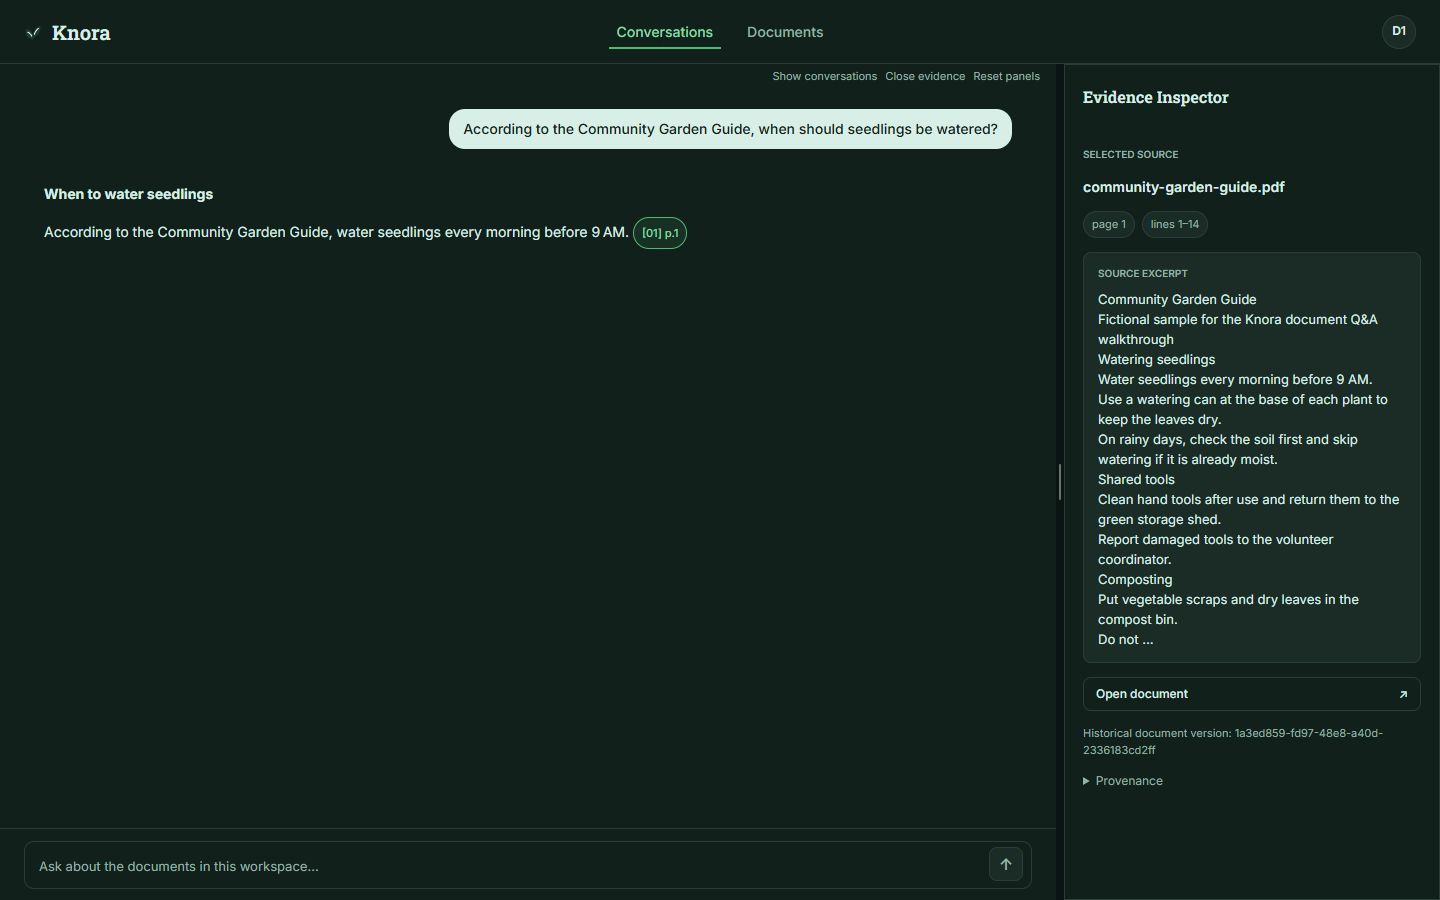
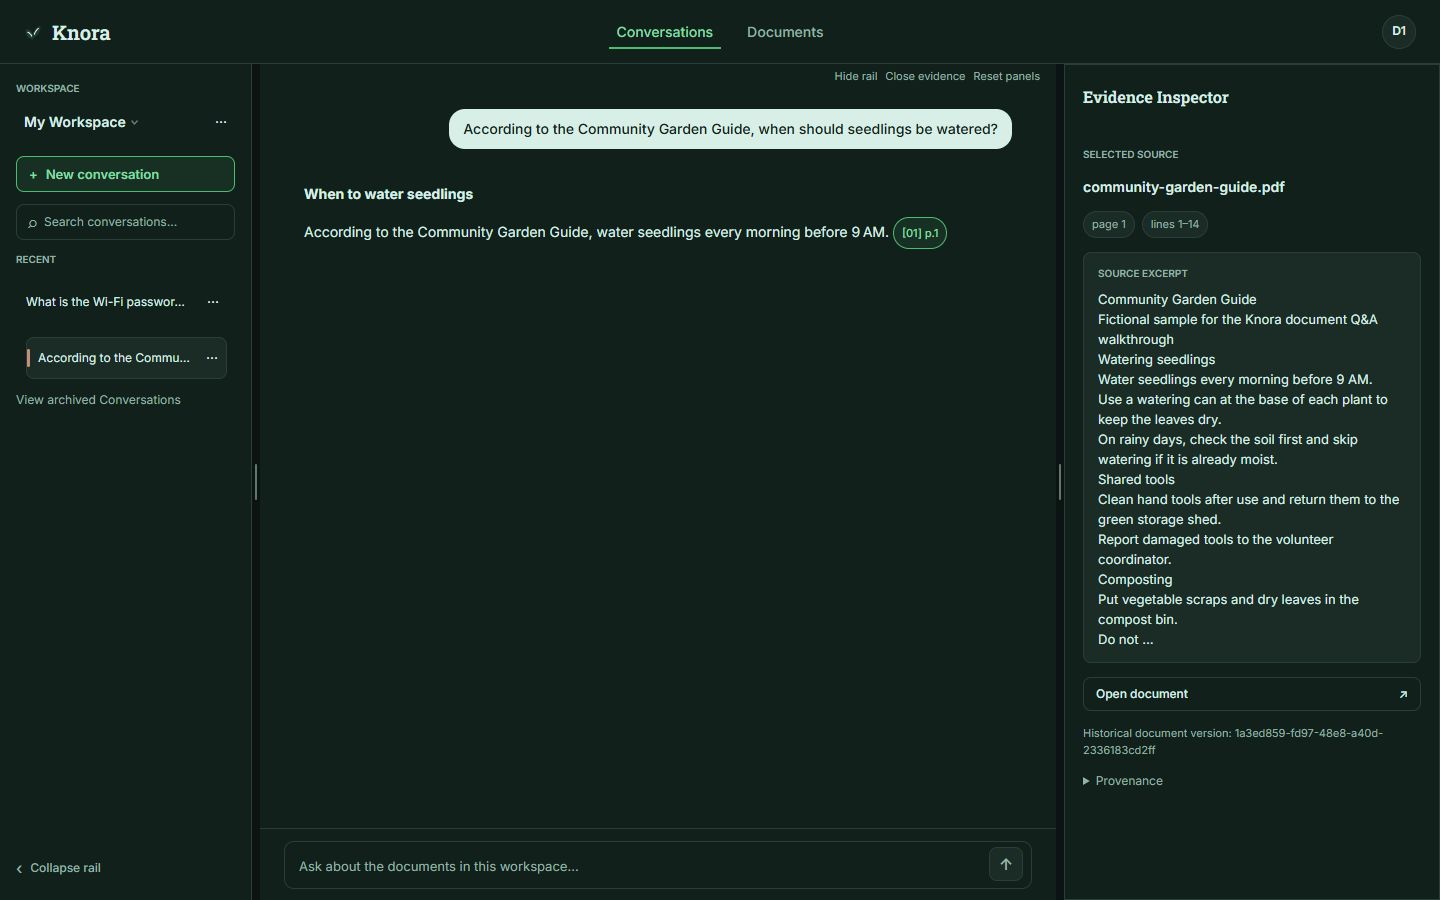
docs: show Conversations sidebar in full runtime screenshot

diff --git a/README.vi.md b/README.vi.md
@@ -51,7 +51,7 @@ Câu hỏi này trả về `INSUFFICIENT_EVIDENCE`, không tạo câu trả lờ
 
 **Nguồn gốc screenshots:** chụp lại ngày **2026-10-14** bằng production frontend build từ `c71d35d` và backend source tree `c78140c`. Câu trả lời và thông báo từ chối đã lưu được tạo ban đầu từ `7697615`, sử dụng Cloudflare Qwen3 embeddings (`embedding-cloudflare-qwen3-06b-v1`) và GPT-OSS generation. Lần chụp lại sử dụng các kết quả đó, không thay đổi nội dung hoặc gọi model mới.
 
-Screenshot câu trả lời sau đó được chụp lại từ cùng frontend build với backend source `fe3b696`, ẩn conversation rail. Ảnh giữ toàn bộ viewport, bao gồm Evidence Inspector và ô nhập câu hỏi. Câu trả lời và citation đã lưu không thay đổi.
+Screenshot câu trả lời sau đó được chụp lại từ cùng frontend build với backend source `7c8d19b`. Ảnh giữ toàn bộ viewport với sidebar Workspace/Conversations, Evidence Inspector và ô nhập câu hỏi đều hiển thị. Câu trả lời và citation đã lưu không thay đổi.
 
 </details>
 

diff --git a/README.md b/README.md
@@ -51,7 +51,7 @@ This question returned `INSUFFICIENT_EVIDENCE` without a generated answer or cit
 
 **Screenshot provenance:** recaptured on **2026-10-14** with a production frontend build from `c71d35d` and backend source tree `c78140c`. The stored answer and refusal were originally produced from `7697615`, using Cloudflare Qwen3 embeddings (`embedding-cloudflare-qwen3-06b-v1`) and GPT-OSS generation. Recapture reused those results without changing their content or making new model calls.
 
-The answer screenshot was subsequently recaptured from the same frontend build with backend source `fe3b696`, with the conversation rail hidden. The image preserves the full viewport, including the Evidence Inspector and question composer. The stored answer and citation are unchanged.
+The answer screenshot was subsequently recaptured from the same frontend build with backend source `7c8d19b`. The image preserves the full viewport with the Workspace/Conversations sidebar, Evidence Inspector and question composer visible. The stored answer and citation are unchanged.
 
 </details>
 
